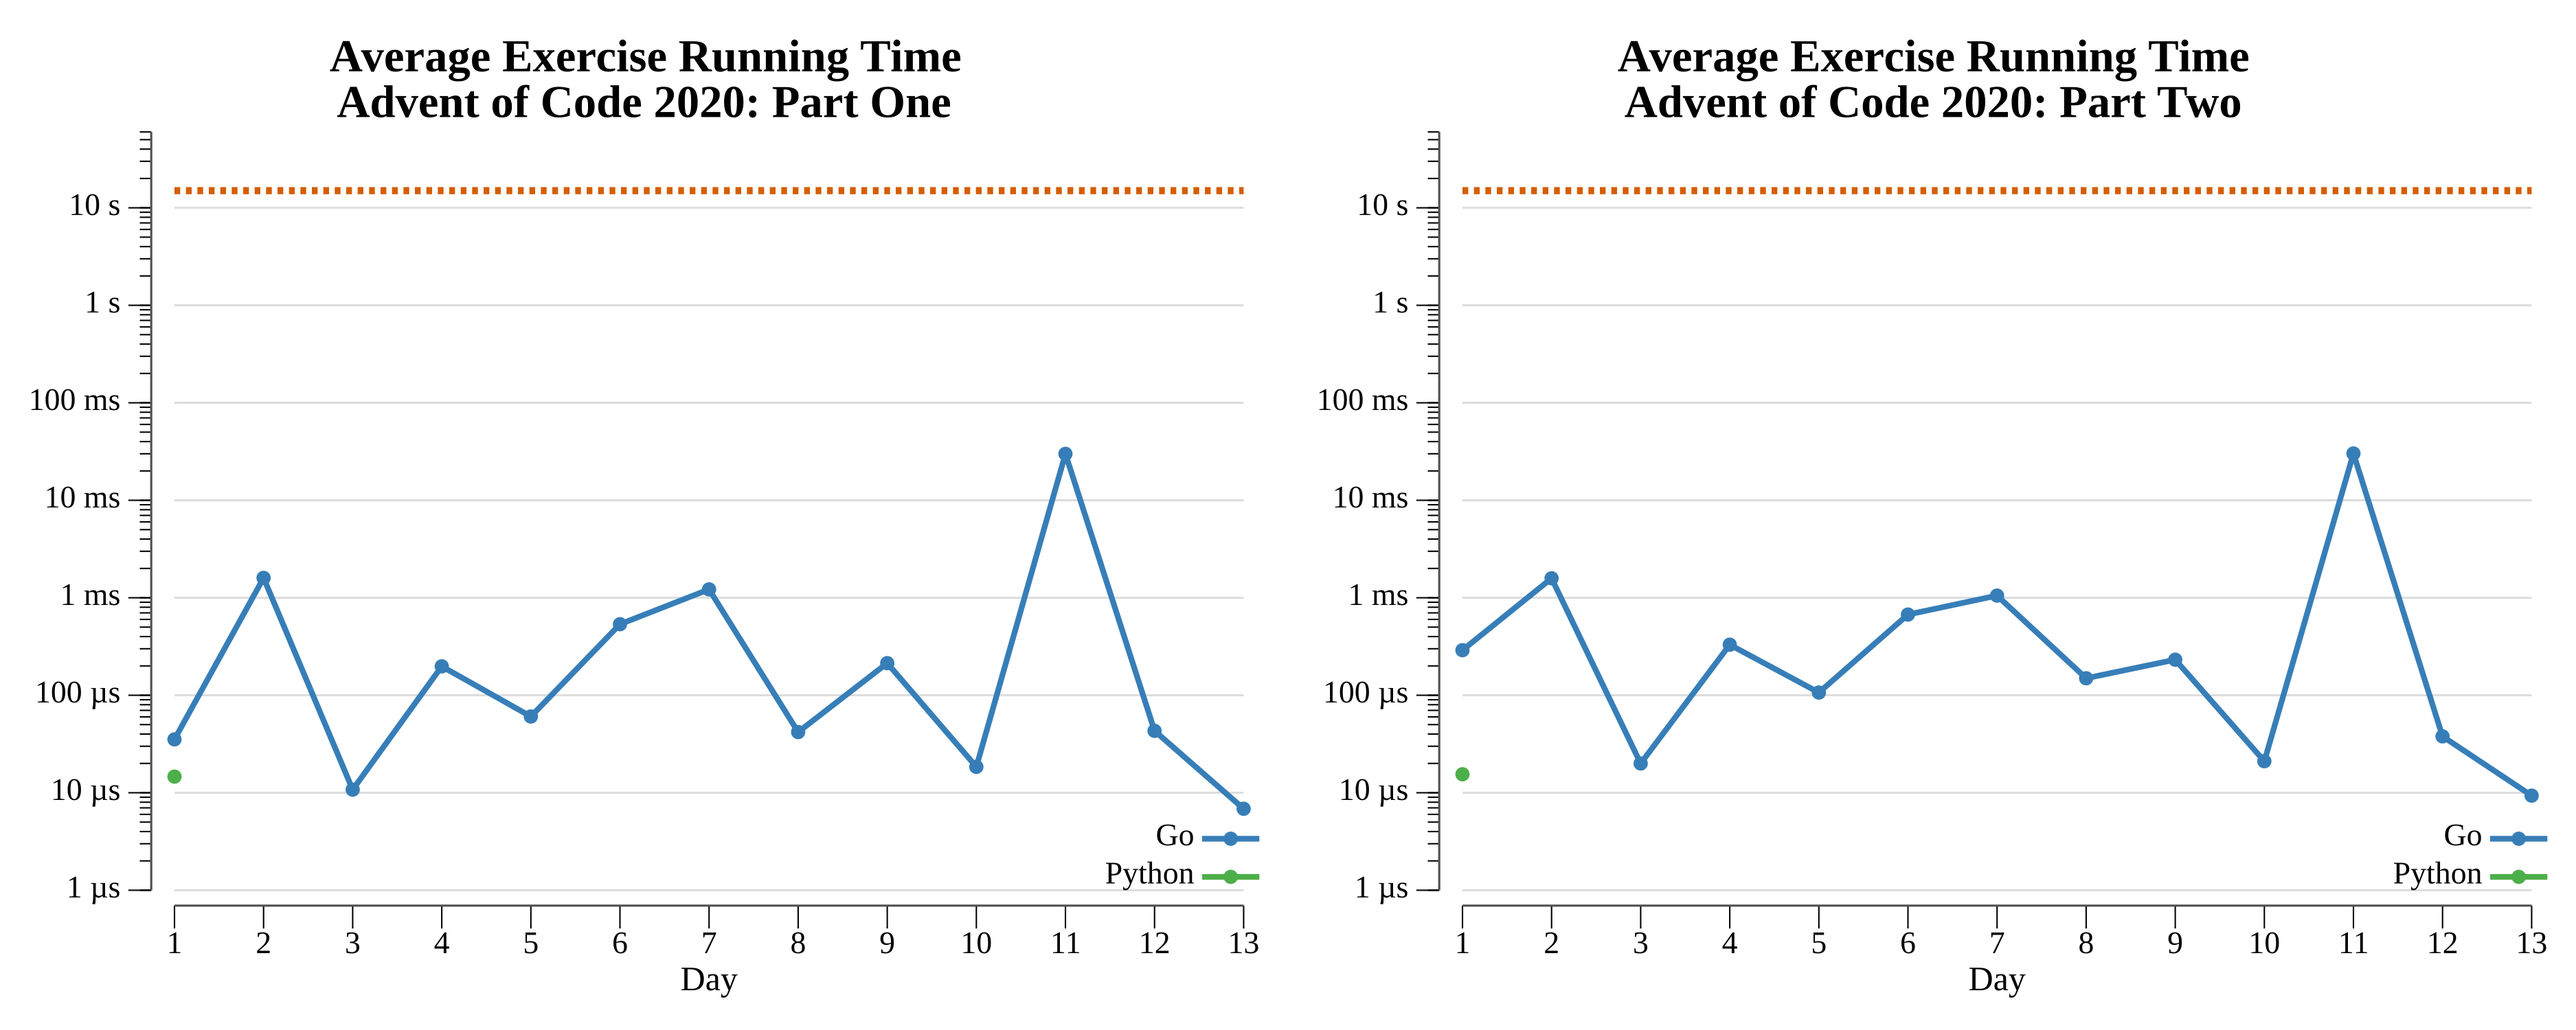
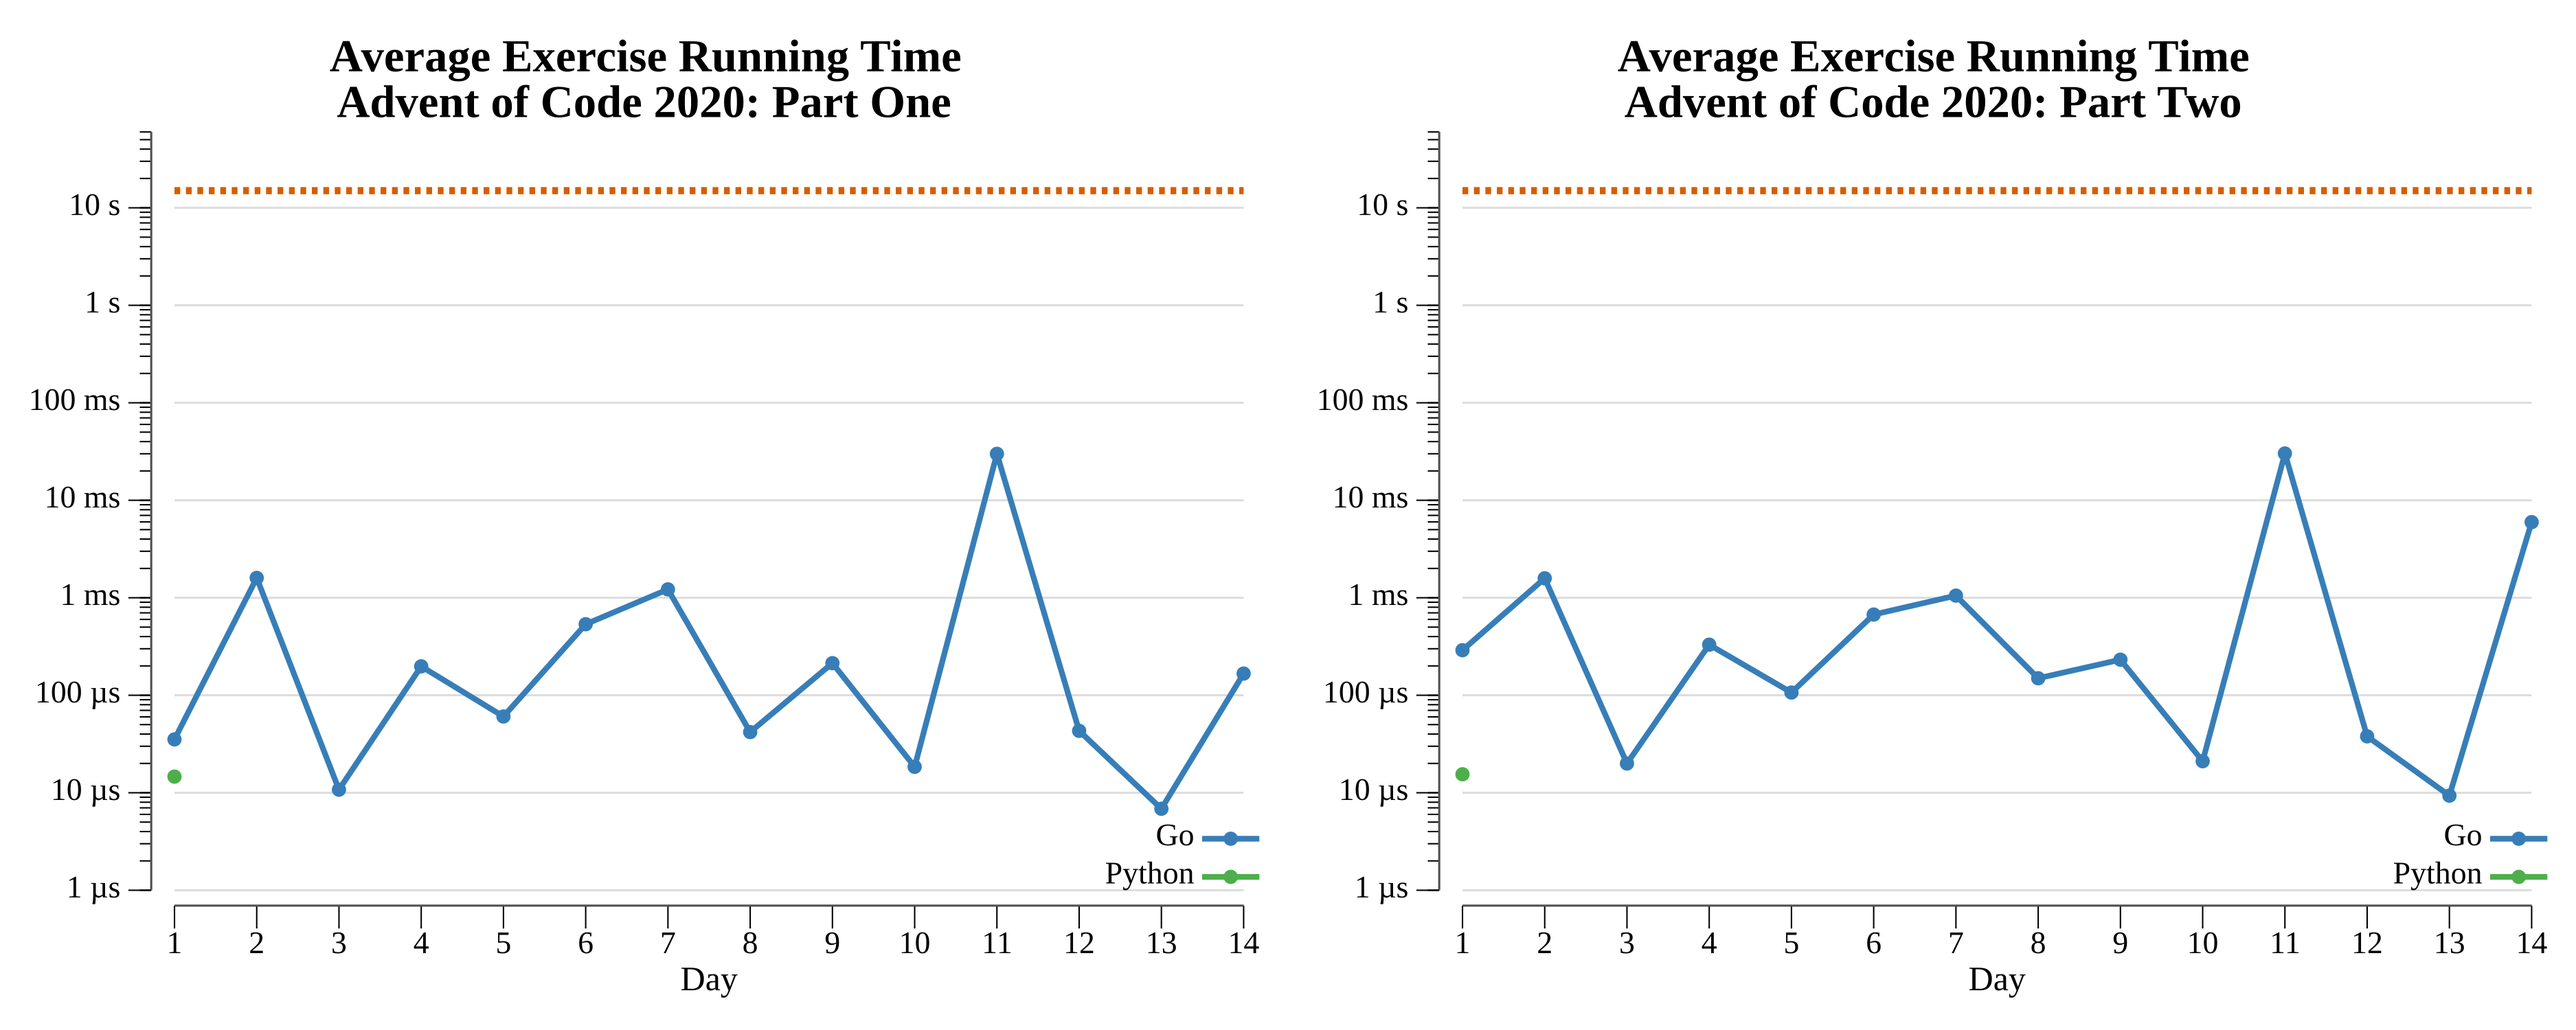
2020 day 14

diff --git a/exercises/2020/14-dockingData/go/vis.go b/exercises/2020/14-dockingData/go/vis.go
@@ -1,0 +1,115 @@
+package exercises
+
+import (
+	"fmt"
+	"os"
+	"path/filepath"
+	"sort"
+	"strings"
+)
+
+// Vis explains why Part Two fans out. Each mask has some number of floating `X`
+// bits, and a write under it touches 2^(that many) addresses. The chart shows the
+// distribution of X-counts across the program's masks (bars) and, on a second
+// axis, how many addresses each X-count expands to (2^X), making clear that a few
+// high-X masks dominate the total writes. Bars and the exponential curve use
+// distinct colorblind-safe colors and the curve has point markers, so the chart
+// reads in grayscale.
+func (e Exercise) Vis(instr, outdir string) error {
+	ops, err := parse(instr)
+	if err != nil {
+		return err
+	}
+
+	// Count masks by their number of X (floating) bits.
+	xCount := map[int]int{}
+	for _, o := range ops {
+		if o.isMemory {
+			continue
+		}
+		x := strings.Count(o.mask, "X")
+		xCount[x]++
+	}
+	xs := make([]int, 0, len(xCount))
+	for x := range xCount {
+		xs = append(xs, x)
+	}
+	sort.Ints(xs)
+	minX, maxX := xs[0], xs[len(xs)-1]
+
+	const (
+		W  = 900
+		H  = 460
+		mL = 60
+		mR = 60
+		mT = 60
+		mB = 70
+	)
+	plotW := W - mL - mR
+	plotH := H - mT - mB
+	span := maxX - minX
+	if span == 0 {
+		span = 1
+	}
+	xOf := func(x int) int { return mL + (x-minX)*plotW/span }
+
+	maxCount := 1
+	for _, c := range xCount {
+		if c > maxCount {
+			maxCount = c
+		}
+	}
+	// Headroom so near-equal bars don't fill the whole frame.
+	scaleCount := maxCount * 13 / 10
+
+	barCol := "#0072B2"   // blue: number of masks
+	curveCol := "#E69F00" // orange: addresses per write (2^X)
+
+	var sb strings.Builder
+	fmt.Fprintf(&sb, `<svg xmlns="http://www.w3.org/2000/svg" width="%d" height="%d" viewBox="0 0 %d %d" font-family="monospace">`, W, H, W, H)
+	fmt.Fprintf(&sb, `<rect width="%d" height="%d" fill="#111418"/>`, W, H)
+	fmt.Fprintf(&sb, `<text x="%d" y="34" fill="#e8ecf4" font-size="16">Docking Data: floating bits per mask (part 2 fan-out)</text>`, mL)
+
+	// Axes.
+	fmt.Fprintf(&sb, `<line x1="%d" y1="%d" x2="%d" y2="%d" stroke="#3a424e"/>`, mL, mT+plotH, W-mR, mT+plotH)
+	fmt.Fprintf(&sb, `<line x1="%d" y1="%d" x2="%d" y2="%d" stroke="#3a424e"/>`, mL, mT, mL, mT+plotH)
+
+	// Bars: mask count per X value.
+	bw := plotW/(span+1) - 8
+	if bw < 6 {
+		bw = 6
+	}
+	for x := minX; x <= maxX; x++ {
+		c := xCount[x]
+		fmt.Fprintf(&sb, `<text x="%d" y="%d" fill="#9aa4b2" font-size="10" text-anchor="middle">%d</text>`, xOf(x), mT+plotH+16, x)
+		if c == 0 {
+			continue
+		}
+		bh := c * plotH / scaleCount
+		fmt.Fprintf(&sb, `<rect x="%d" y="%d" width="%d" height="%d" fill="%s"/>`, xOf(x)-bw/2, mT+plotH-bh, bw, bh, barCol)
+		fmt.Fprintf(&sb, `<text x="%d" y="%d" fill="#c8d0dc" font-size="10" text-anchor="middle">%d</text>`, xOf(x), mT+plotH-bh-4, c)
+	}
+	fmt.Fprintf(&sb, `<text x="%d" y="%d" fill="#9aa4b2" font-size="12" text-anchor="middle">number of X (floating) bits in the mask</text>`, mL+plotW/2, mT+plotH+42)
+
+	// Curve: 2^X addresses per write, on its own log-ish mapping (use bit height
+	// = X directly, since 2^X on a log2 axis is linear — label with the value).
+	var pts []string
+	for x := minX; x <= maxX; x++ {
+		// Map 2^X onto plot height by X/maxX (log2 scale).
+		y := mT + plotH - x*plotH/maxX
+		pts = append(pts, fmt.Sprintf("%d,%d", xOf(x), y))
+		fmt.Fprintf(&sb, `<circle cx="%d" cy="%d" r="3.5" fill="%s"/>`, xOf(x), y, curveCol)
+	}
+	fmt.Fprintf(&sb, `<polyline points="%s" fill="none" stroke="%s" stroke-width="2"/>`, strings.Join(pts, " "), curveCol)
+	// Annotate the largest fan-out.
+	fmt.Fprintf(&sb, `<text x="%d" y="%d" fill="%s" font-size="11" text-anchor="end">%d addresses / write</text>`,
+		W-mR-16, mT+30, curveCol, 1<<uint(maxX))
+
+	// Legend along the bottom.
+	ly := H - 16
+	fmt.Fprintf(&sb, `<rect x="%d" y="%d" width="12" height="12" fill="%s"/><text x="%d" y="%d" fill="#e8ecf4" font-size="12">masks with this many X bits</text>`, mL, ly-10, barCol, mL+18, ly)
+	fmt.Fprintf(&sb, `<circle cx="%d" cy="%d" r="5" fill="%s"/><text x="%d" y="%d" fill="#e8ecf4" font-size="12">addresses per write = 2^X (log2 axis)</text>`, mL+296, ly-4, curveCol, mL+308, ly)
+
+	sb.WriteString(`</svg>`)
+	return os.WriteFile(filepath.Join(outdir, "docking-data.svg"), []byte(sb.String()), 0o600)
+}

diff --git a/exercises/2020/14-dockingData/go/exercise.go b/exercises/2020/14-dockingData/go/exercise.go
@@ -1,0 +1,141 @@
+package exercises
+
+import (
+	"fmt"
+	"strconv"
+	"strings"
+
+	"github.com/asphaltbuffet/advent-of-code/internal/common"
+)
+
+// Exercise for Advent of Code 2020 day 14.
+type Exercise struct {
+	common.BaseExercise
+}
+
+// op is one program line: either a new mask, or a memory write.
+type op struct {
+	mask     string // set when this line is "mask = ..."
+	addr     uint64
+	value    uint64
+	isMemory bool
+}
+
+func parse(instr string) ([]op, error) {
+	var ops []op
+	for _, line := range strings.Split(strings.TrimSpace(instr), "\n") {
+		line = strings.TrimSpace(line)
+		if strings.HasPrefix(line, "mask") {
+			ops = append(ops, op{mask: strings.TrimPrefix(line, "mask = ")})
+			continue
+		}
+		// mem[ADDR] = VALUE
+		inner := line[strings.IndexByte(line, '[')+1 : strings.IndexByte(line, ']')]
+		addr, err := strconv.ParseUint(inner, 10, 64)
+		if err != nil {
+			return nil, fmt.Errorf("parsing address in %q: %w", line, err)
+		}
+		val, err := strconv.ParseUint(strings.TrimSpace(line[strings.IndexByte(line, '=')+1:]), 10, 64)
+		if err != nil {
+			return nil, fmt.Errorf("parsing value in %q: %w", line, err)
+		}
+		ops = append(ops, op{addr: addr, value: val, isMemory: true})
+	}
+	return ops, nil
+}
+
+// One applies the value mask (0/1 overwrite bits, X passes through) and sums the
+// resulting memory.
+func (e Exercise) One(instr string) (any, error) {
+	ops, err := parse(instr)
+	if err != nil {
+		return nil, err
+	}
+
+	var orMask, andMask uint64
+	mem := map[uint64]uint64{}
+
+	for _, o := range ops {
+		if !o.isMemory {
+			// Build OR (force 1s) and AND (force 0s) masks from the string.
+			orMask, andMask = 0, 0
+			for _, c := range o.mask {
+				orMask <<= 1
+				andMask <<= 1
+				switch c {
+				case '1':
+					orMask |= 1
+					andMask |= 1
+				case '0':
+					// leave both bits 0: OR keeps value bit, AND clears it
+				default: // 'X'
+					andMask |= 1 // pass through
+				}
+			}
+			continue
+		}
+		mem[o.addr] = (o.value | orMask) & andMask
+	}
+
+	var sum uint64
+	for _, v := range mem {
+		sum += v
+	}
+	return fmt.Sprintf("%d", sum), nil
+}
+
+// addresses expands a base address under a v2 mask into every concrete address:
+// mask '1' forces a bit on, '0' leaves it, 'X' is floating (both values).
+func addresses(mask string, base uint64) []uint64 {
+	addrs := []uint64{0}
+	n := len(mask)
+	for i, c := range mask {
+		bit := uint64(1) << (n - 1 - i)
+		switch c {
+		case '0':
+			// keep the base's bit
+			keep := base & bit
+			for j := range addrs {
+				addrs[j] |= keep
+			}
+		case '1':
+			for j := range addrs {
+				addrs[j] |= bit
+			}
+		default: // 'X' floating: fork every address into 0 and 1
+			doubled := make([]uint64, 0, len(addrs)*2)
+			for _, a := range addrs {
+				doubled = append(doubled, a, a|bit)
+			}
+			addrs = doubled
+		}
+	}
+	return addrs
+}
+
+// Two decodes each write's address through the mask (floating bits fan out to
+// many addresses) and sums the resulting memory.
+func (e Exercise) Two(instr string) (any, error) {
+	ops, err := parse(instr)
+	if err != nil {
+		return nil, err
+	}
+
+	var mask string
+	mem := map[uint64]uint64{}
+	for _, o := range ops {
+		if !o.isMemory {
+			mask = o.mask
+			continue
+		}
+		for _, a := range addresses(mask, o.addr) {
+			mem[a] = o.value
+		}
+	}
+
+	var sum uint64
+	for _, v := range mem {
+		sum += v
+	}
+	return fmt.Sprintf("%d", sum), nil
+}

diff --git a/exercises/2020/14-dockingData/README.md b/exercises/2020/14-dockingData/README.md
@@ -1,0 +1,51 @@
+# [Day 14: Docking Data](https://adventofcode.com/2020/day/14)
+
+<!-- These are helper text to make formatting the yearly readme consistent and easier...
+
+[Day 14: Docking Data][rm14]
+[Go][go14]
+
+[rm14]: 14-dockingData/README.md
+[go14]: 14-dockingData/go
+
+-->
+
+## Notes
+
+A 36-bit mask applied differently in each part.
+
+- **Part One** masks the value: the string becomes an OR mask (force 1s) and an
+  AND mask (force 0s), so each write is `(value | or) & and` — `X` positions pass
+  the value bit through.
+- **Part Two** masks the address: `1` forces a bit on, `0` leaves it, and each
+  `X` is a floating bit that fans out to both 0 and 1. A mask with `k` floating
+  bits writes to `2^k` addresses.
+
+Both sum the final memory, keyed by address in a map.
+
+## Go
+
+```text
+────────────────────────────────────────
+─      2020 Day 14: Docking Data       ─
+────────────────────────────────────────
+
+Solving (Go)…
+1.0:  PASS             0.103ms
+2.0:  PASS             6.440ms
+```
+
+## Visualization
+
+Why Part Two fans out. The bars show how many masks in the program have each
+number of `X` (floating) bits — clustered around 4 to 9 — and the curve shows how
+many addresses each such write expands to, `2^X`, on a log2 axis. A single write
+under a 9-X mask touches 512 addresses, which is what makes Part Two expensive.
+Bars and the exponential curve use distinct colorblind-safe colors and the curve
+carries point markers, so the chart reads in grayscale.
+
+![Floating-bit distribution and fan-out](docking-data.svg)
+
+## Run Times
+
+![Day 14 run-time graphs](run-times.png)

diff --git a/exercises/2020/README.md b/exercises/2020/README.md
@@ -19,7 +19,7 @@
 | [Day 11: Seating System][rm_11] |  ★ ★  | [Go][go_11] |
 | [Day 12: Rain Risk][rm_12] |  ★ ★  | [Go][go_12] |
 | [Day 13: Shuttle Search][rm_13] |  ★ ★  | [Go][go_13] |
-| 14                           |  ☆ ☆  |            |
+| [Day 14: Docking Data][rm_14] |  ★ ★  | [Go][go_14] |
 | 15                           |  ☆ ☆  |            |
 | 16                           |  ☆ ☆  |            |
 | 17                           |  ☆ ☆  |            |
@@ -58,6 +58,8 @@
 [go_12]: 12-rainRisk/go
 [rm_13]: 13-shuttleSearch/README.md
 [go_13]: 13-shuttleSearch/go
+[rm_14]: 14-dockingData/README.md
+[go_14]: 14-dockingData/go
 
 ## 2020 Run Times
 
